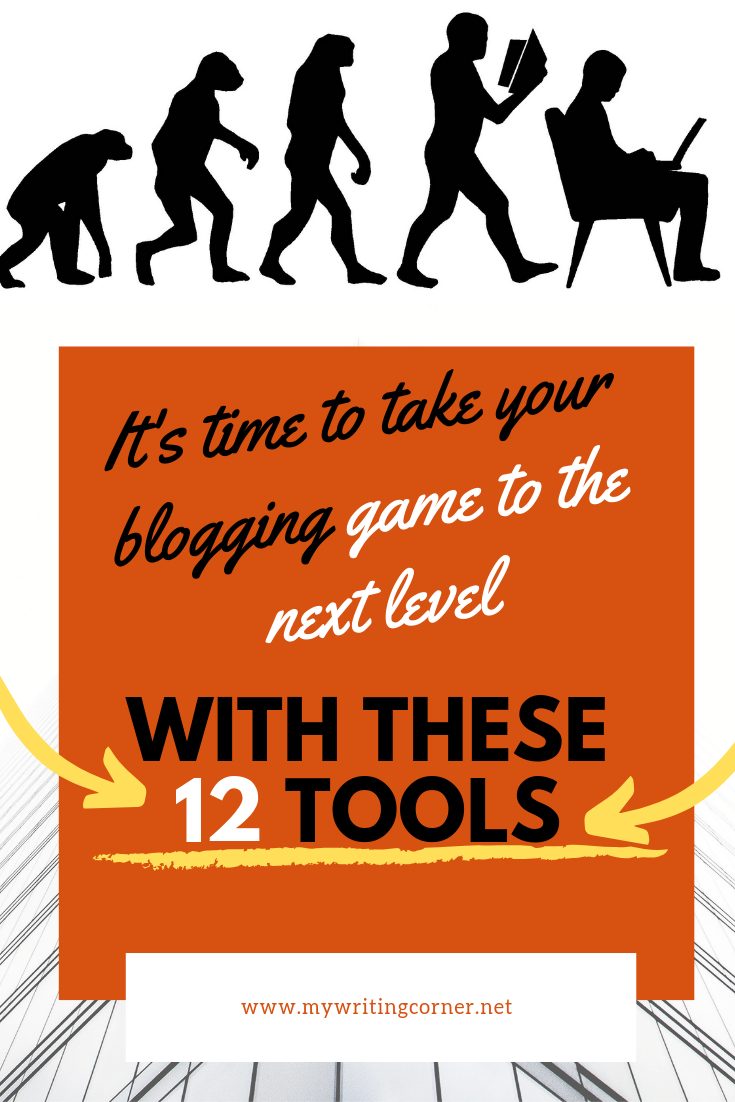
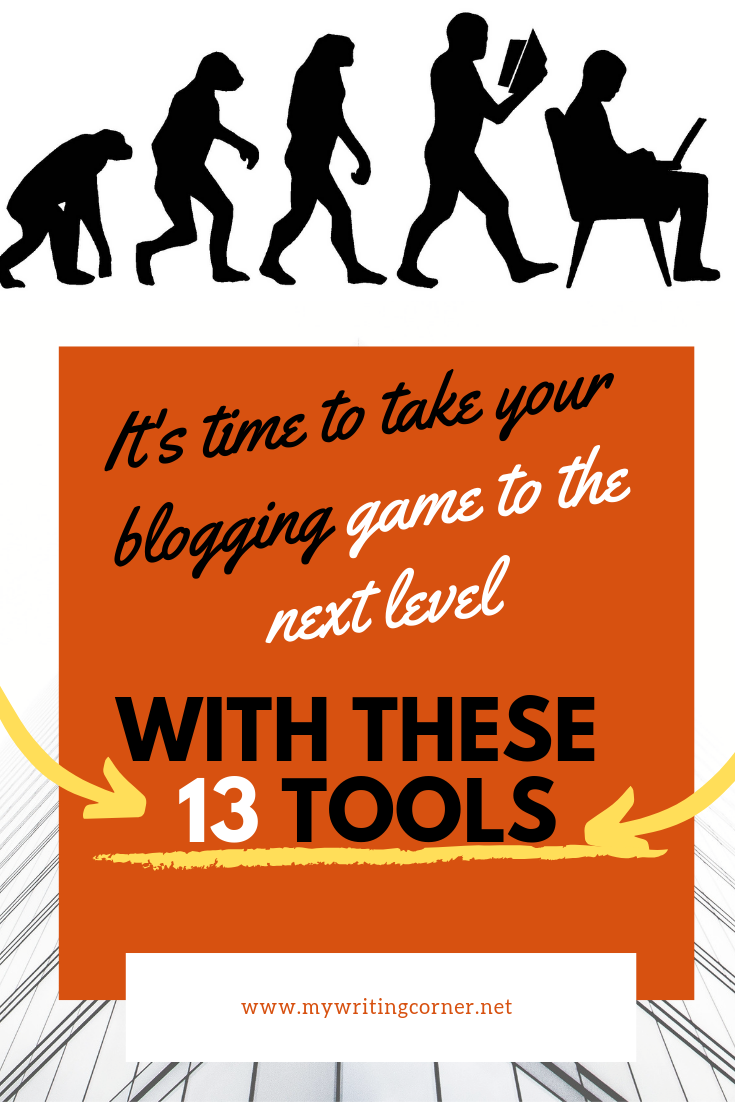
fixing best blogging tools post for SEO

Changed region(s): [[0.0, 0.6171, 1.0, 0.7713]]

diff --git a/_posts/2019-06-07-best-blogging-tools.md b/_posts/2019-06-07-best-blogging-tools.md
@@ -13,7 +13,7 @@ redirect_from:
 ---
 
 # Best blogging tools for 2019
-## It's time to take your game to the next level  with these 12 blogging tools
+## It's time to take your game to the next level  with these 13 blogging tools
 #### {{page.date | date: "%B %e, %Y"}}
 
 
@@ -37,14 +37,14 @@ So here we go...
 <a name="general" />
 
 ### General tools
-Lead generation, social sharing and even task management are activities any self-respecting blogger should be doing when not working on the blog. And these are tools to help with that.
+Lead generation, social sharing and even task management are activities any self-respecting blogger should be doing when not working on the blog. And these are some of the best tools to help with that.
 
 #### Sumo
 ![Sumo.com](/assets/images/blogposts/sumo-ss.png)
 
 When it comes to turning your visits into possible leads (basically, someone who might eventually turn into profit for you in one way or the other), [Sumo.com](http://www.sumo.com) is a great place to start.
 They provide several tools, such as form creation, allowing you to customize the way you capture email addresses. You can keep user lists and email them with news and offers. Another very useful feature they provide is the ability to add share buttons for every single social network out there. If you're looking for a way to add them, Sumo can help you do it quickly.
-And last but not least, they also provide very stylized Smart Call to Action bars, allowing you to get your users' attention into specific offers you might have.
+And last but not least, they also provide very stylized smart Call to Action bars, allowing you to get your users' attention into specific offers you might have.
 Finally, and to top it all, they provide plugins for the most popular blogging and e-commerce platforms, such as:
 - [WordPress](https://wordpress.com/alp/?aff=25078)
 - [Shopify](http://www.shopify.com)
@@ -63,6 +63,7 @@ You do have a **free** plan with MailChimp, although a bit limited, it's great t
 
 #### Trello
 ![Trello](/assets/images/blogposts/trello-ss.png)
+I can't make a list of the best blogging tools without adding [Trello](http://www.trello.com) in one way or another, this is probably one of my favorite tools out there and I'll tell you why in a second. 
 If you're taking your blogging activity seriously, you'll probably start generating a backlog of article ideas pretty soon. On top of that, you'll start getting new ideas for your marketing strategies, guest posts requests and many other very possible tasks that will populate your day-to-day. You can try to keep all of that in your head, sure, but pretty soon you'll start forgetting about some of them. I know I was until I decided to start dumping everything related to my blogs into a [Trello](http://www.trello.com) board. 
 I literally started with a board called "Shit to do", where I would write everything I could think of, wherever I was (they have a very nice mobile app you can install). I started that board with a single list: To-Do, that list eventually turned into different ones, when my ideas started to grow into projects. Then other projects and eventually status lists, such as To-Do, Doing, Rejected and my personal favorite: Done.
 
@@ -70,8 +71,8 @@ Trello combines the power of an agile scrum board, with a very simple and slim U
 
 <a name="image">
 ### Image related tools
-People usually start blogs because they're confident in their writing skills (however mislead that confidence might be), but they tend to forget that in order to promote the work they do, they also need a bit of an eye for design. 
-Lucky for us, there are several tools that have been designed to help in this area, either by providing quality content or by making the job so easy that anyone can look like a great graphic designer. Let me show you:
+People usually start blogs because they're confident in their writing skills or maybe they know they have a message to share, but they tend to forget that in order to promote the work they do, they also need a bit of an eye for design. 
+Lucky for us, there are several tools for bloggers that have been designed to help in this area, either by providing quality content or by making the job so easy that anyone can look like a great graphic designer. Let me show you:
 
 #### Canva
 ![Canva.com](/assets/images/blogposts/canva-ss.png)
@@ -89,6 +90,8 @@ They do offer a paid plan, which gives you access to even more graphics and asse
 #### BrandCrowd
 ![Brandcrowd](/assets/images/blogposts/brandcrowd-ss.png)
 [BrandCrowd](https://shareasale.com/r.cfm?b=1273424&u=2099099&m=84069&urllink=&afftrack=) allows you to auto-generate your own logo. Yeah, you read it right, where Canva allowed you to look like a great Graphics Designer for your header images, BrandCrowd will auto-generate a logo for you (actually, it'll generate dozens for you to pick up), and then it'll let you customize it. 
+If you're making a list of great blogging tools, this one needs to be in there, no doubt about it. Graphic designs and taste aren't things you can usually pickup quickly, and if you're just starting from scratch, [BrandCrowd](https://shareasale.com/r.cfm?b=1273424&u=2099099&m=84069&urllink=&afftrack=) is definitely a great way to jump-start this process.
+
 It's not free though, you're perfectly capable of picking the logo and customizing it without even having to log-in, but if you do choose to download it, you'll have to pay. Mind you, considering it's the face of your blog, USD 45 is not that bad, especially because you're not just getting an image, you're getting:
 
 - Your logo without a watermark (you can download it for free, but it comes watermarked)
@@ -123,7 +126,9 @@ If you're using photos on your site, __you need to pay for them__ or, thanks to 
 <a name="writing" />
 
 ### Writing help tools
-Because no matter how great of a writer you think you are, it never hurts to get someone to review your work. These tools will do that for you, they'll look at your grammar, your syntax, and your structure and will provide feedback. 
+Because no matter how great of a writer you think you are, it never hurts to get someone to review your work. These great tools will do that for you, they'll look at your grammar, your syntax, and your structure and will provide feedback. 
+These aren't specific for bloggers, any writer has use for them, but there can't be a best blogging tools list without touching on this category.
+
 So here they are:
 
 
@@ -171,7 +176,7 @@ It'll basically rate your readability, and if you ask me (and most of the profes
 ![Headline analyzer](/assets/images/blogposts/headline-ss.png)
 Finally, the last writing help tool I want to talk about is [Sharethrough's Headline Analyzer](https://headlines.sharethrough.com). This little page will gladly review your article's headline and guide to towards improving it as much as possible. It takes into account the length, the type of words you use on it and it even makes suggestions where you can improve upon. 
 
-For example, my original title for this post was going to be: _Best Blogging tools for 2019_ but after iterating a few times and following the suggestions provided, I landed on: _It's time to take your blogging game to the next level  with these 12 tools_ which I think is a more engaging title, don't you?
+For example, my original title for this post was going to be: _Best Blogging tools for 2019_ but after iterating a few times and following the suggestions provided, I landed on the subtitle: _It's time to take your blogging game to the next level  with these 13 tools_ which I think is a more engaging title, don't you?
 
 This product is completely **free** and you can start using it without the need to signup, which is another major benefit, just go and get feedback.
 
@@ -194,10 +199,17 @@ Here are some tools that can help you in that regard.
 
 External websites don't need to notify you when they change their URLs, in fact, they're not even forced to add redirections to the new URLs. So the only way for you to make sure you're not linking to the big 404 out there in the _interweb_, you'll need to periodically check your blog for broken links. Doing that can be a very tedious task, so having a system do that for you, and for **completely free** doesn't get any better.
 
+#### Keyword research
+![Ubbersuggest](/assets/images/blogposts/ubbersuggest.jpg)
+[Ubbersuggests](https://app.neilpatel.com/) is one of those mandatory tools bloggers need. If you're expecting your articles to be found on Search Engines Result Pages (also known as SERP), and you want them to also rank high, normally in the first page, then you need to do keyword research.
+And what does that mean? You need tools to help you understand what kind of keywords to target on your blog, how difficult is it for you to rank high for them and even, who else is _already_ ranking for those keywords?
+[Ubbersuggests](https://app.neilpatel.com/) is the tool for you, why? Because it's completely **FREE**, other tools will give you a small glimps of the results, and then will try to charge you for the entire list, but this app is ready for you to use. They offer keyword research, domain research (it'll tell you about your backlinks, domain authority, and other interesting SEO factors), it'll even show you some content ideas based on the keywords you input (also based on other, already published, articles and the social impact they have had).
+So, whatever tools you try to use from this list, remember to bookmark this one, you'll thank me later!
 
 
 ## Conclusion
-So that is it for my list of favorite blogging tools. I tried to stick to free tools or at least, the ones that provide a free tier to start with because I feel like those are the ideal tools for beginners. 
+That is it for my list of best blogging tools for 2019. I tried to stick to free tools or at least, the ones that provide a free tier to start with because I feel like those are the ideal tools for beginners. 
+
 What about you? What are _your_ favorite ones and which ones have you tried from this list? Feel free to share and comment below, I'd love to hear back from you!
 
 <div class="sharethis-inline-share-buttons"></div>
